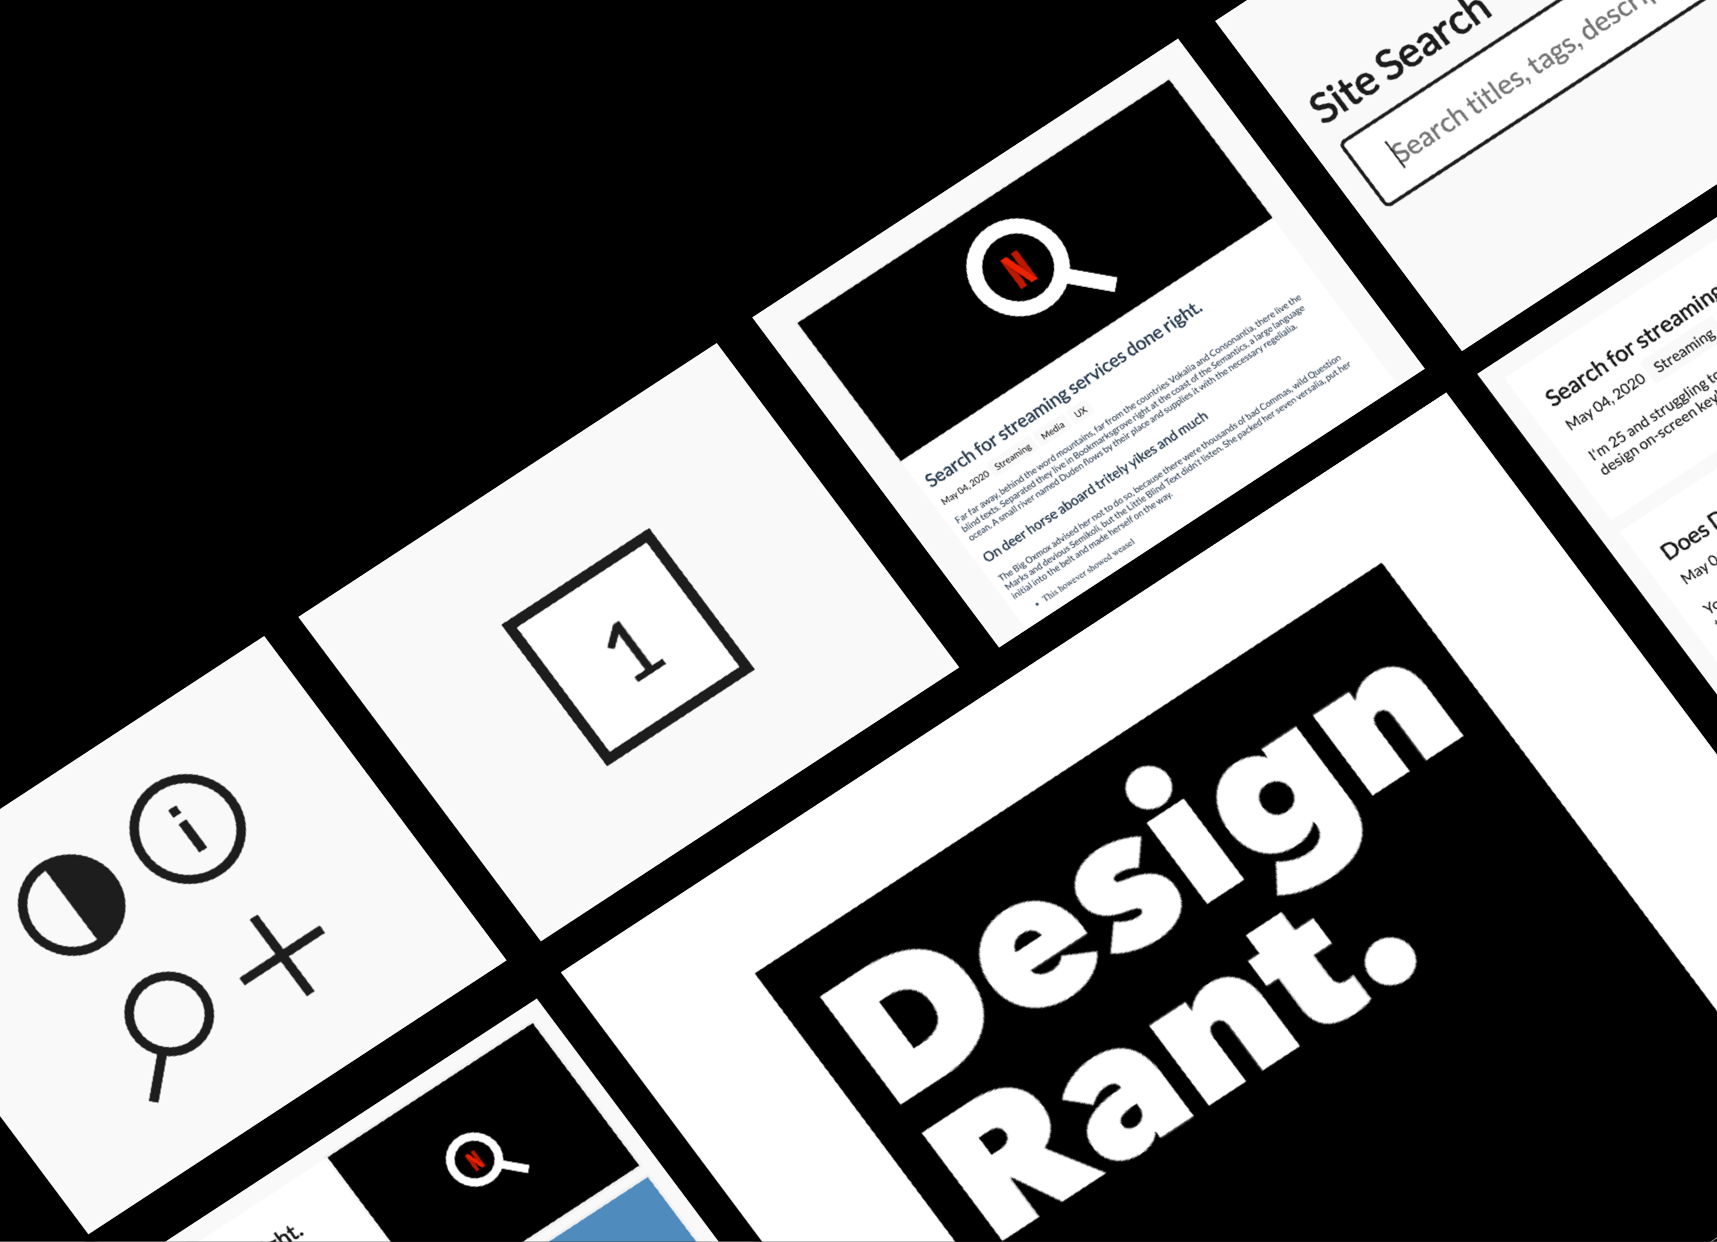
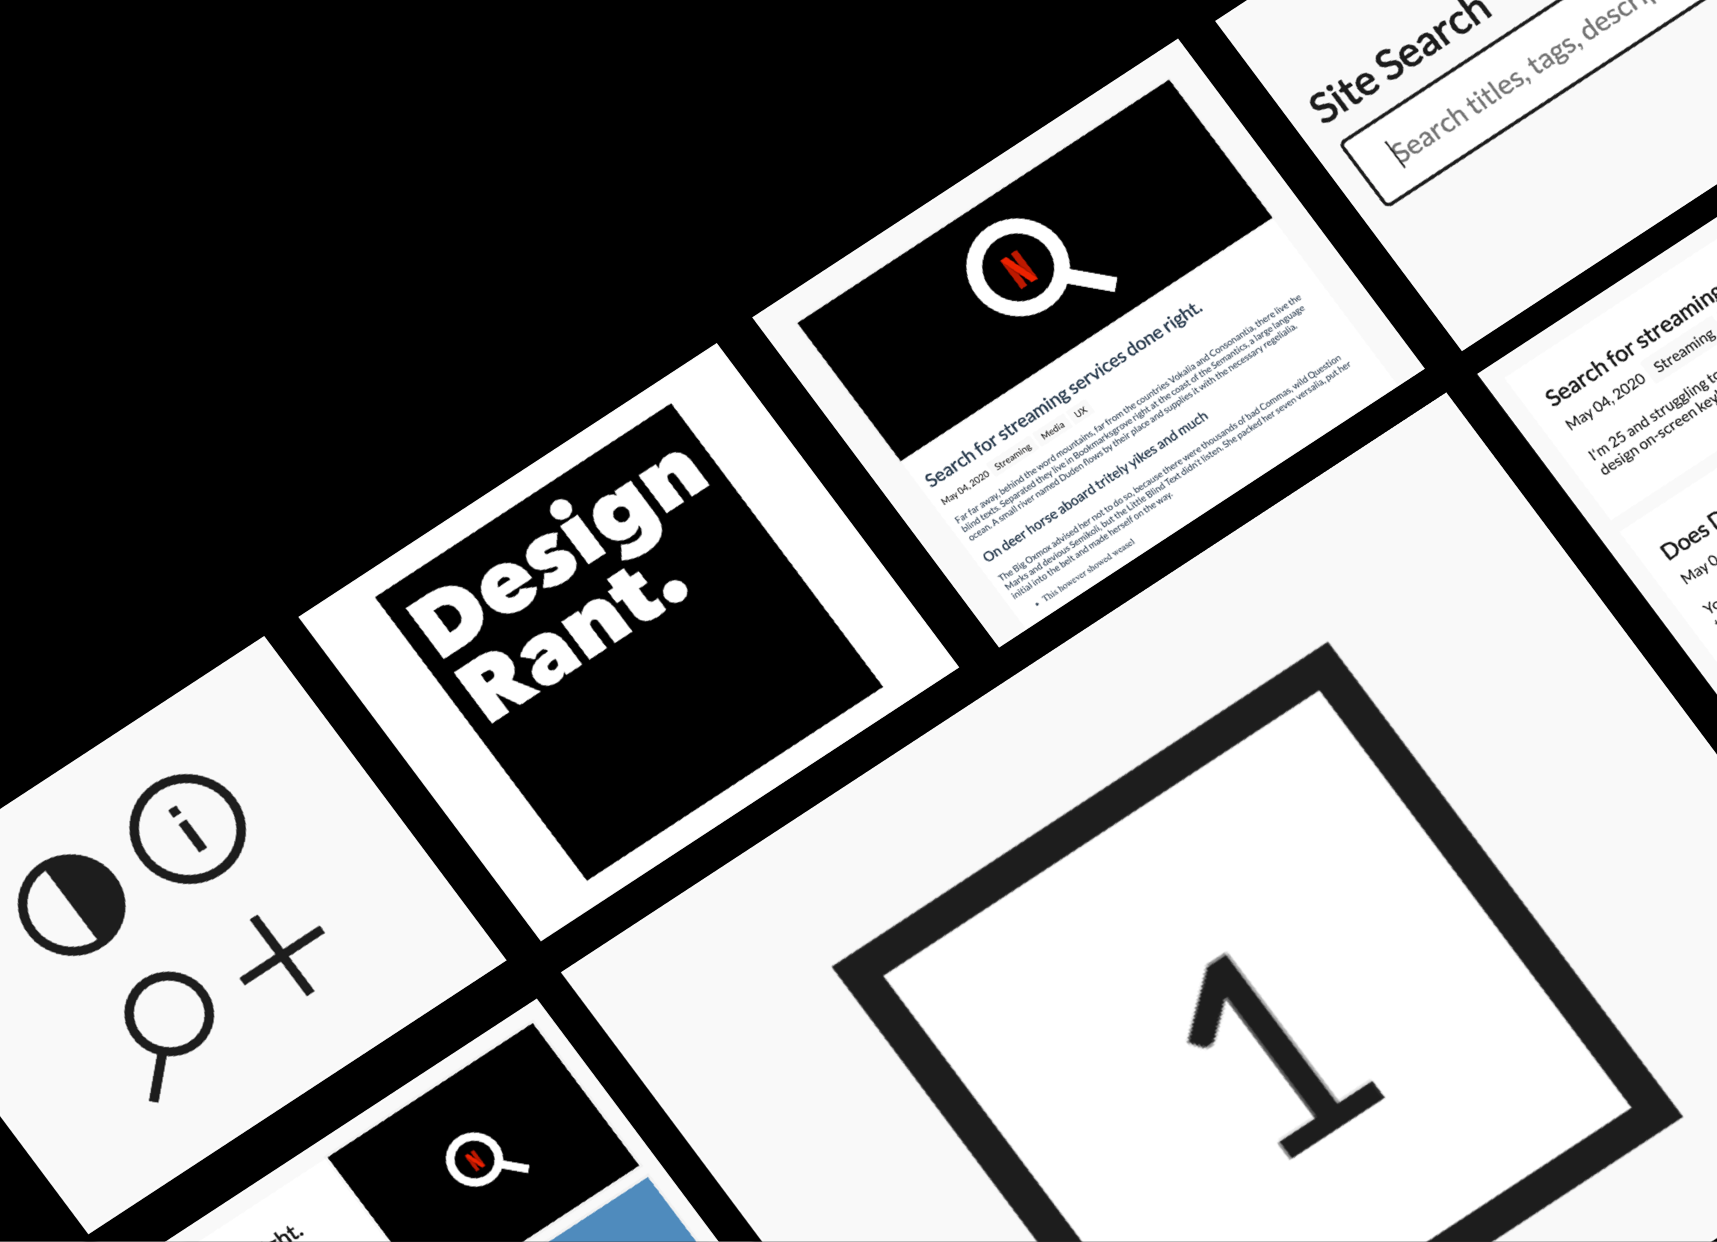
hero updates and minor tweaks

Changed region(s): [[0.4321, 0.4589, 1.0, 1.0], [0.2161, 0.306, 0.5248, 0.7037]]

diff --git a/gatsby-ssr.js b/gatsby-ssr.js
@@ -1,0 +1,56 @@
+import React from "react"
+
+export const onRenderBody = ({ setHeadComponents }) => {
+  setHeadComponents([
+    <link
+      rel="preconnect"
+      key="preconnect-js"
+      href="https://cdn.jsdelivr.net"
+    ></link>,
+    <link
+      rel="preconnect"
+      key="preconnect-imagekit"
+      href="https://ik.imagekit.io"
+    ></link>,
+    <link
+      rel="preconnect"
+      key="preconnect-icons8"
+      href="https://maxst.icons8.com"
+    ></link>,
+    <link
+      rel="preconnect"
+      key="preconnect-fonts"
+      href="https://fonts.googleapis.com"
+    ></link>,
+    <link
+      rel="preconnect"
+      key="preconnect-cloud"
+      href="https://cdnjs.cloudflare.com"
+    ></link>,
+    <link
+      rel="dns-prefetch"
+      key="dns-prefetch-js"
+      href="https://cdn.jsdelivr.net"
+    ></link>,
+    <link
+      rel="dns-prefetch"
+      key="dns-prefetch-imagekit"
+      href="https://ik.imagekit.io"
+    ></link>,
+    <link
+      rel="dns-prefetch"
+      key="dns-prefetch-icons8"
+      href="https://maxst.icons8.com"
+    ></link>,
+    <link
+      rel="dns-prefetch"
+      key="dns-prefetch-fonts"
+      href="https://fonts.googleapis.com"
+    ></link>,
+    <link
+      rel="dns-prefetch"
+      key="dns-prefetch-cloud"
+      href="https://cdnjs.cloudflare.com"
+    ></link>,
+  ])
+}

diff --git a/src/templates/Articles.js b/src/templates/Articles.js
@@ -6,6 +6,8 @@ import Layout from "../components/layout"
 import SEO from "../components/seo"
 import Subscribe from "../components/Articles/Subscribe"
 import compareAsc from "date-fns/compareAsc"
+import Graceful from "react-graceful-image"
+
 export const Article = ({
   title,
   pubDate,
@@ -47,7 +49,7 @@ export const ArticlePreview = ({ title, pubDate, slug, hero_img, excerpt }) => (
   <Link to={"/" + slug} className="link" id="path">
     <div className="grow row margin-5-b">
       <div className="col-xs-12  margin-5-t ">
-        <img
+        <Graceful
           alt="hero-img"
           src={hero_img}
           className="shadow"

diff --git a/src/styles/colors.scss b/src/styles/colors.scss
@@ -1,6 +1,6 @@
 $brand-colors: ('white', white, #1c1c1c), ('black', #1c1c1c, white),
   ('light-brown', #e1d2af, #e1d2af), ('grey', #2e4052, #f9f9f9),
-  ('light-grey', #f9f9f9, #121212), ('blue', #35466d, #49aab7),
+  ('light-grey', #f9f9f9, #121212),('mid-grey', #e8e8e8, #212121), ('blue', #35466d, #49aab7),
   ('dark-blue', #222d46, #ffffff),
   ('special-blue', #067bc2, #067bc2),
   ('light-blue', #49aab7, #49aab7), ('pink', #ea4e68, #000),
